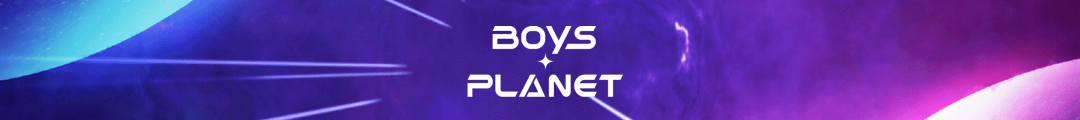
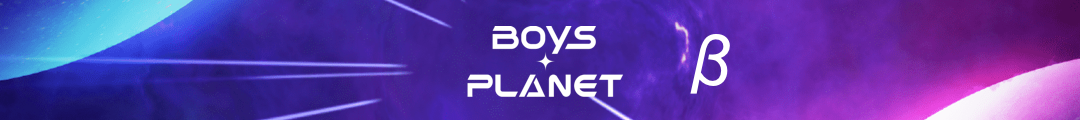
add beta

Changed region(s): [[0.6417, 0.275, 0.7028, 0.775]]

diff --git a/scripts/memberPick.js b/scripts/memberPick.js
@@ -1,4 +1,4 @@
-let showEliminated = true;
+let showEliminated = false;
 let showTop11 = false;
 let sortOrder;
 
